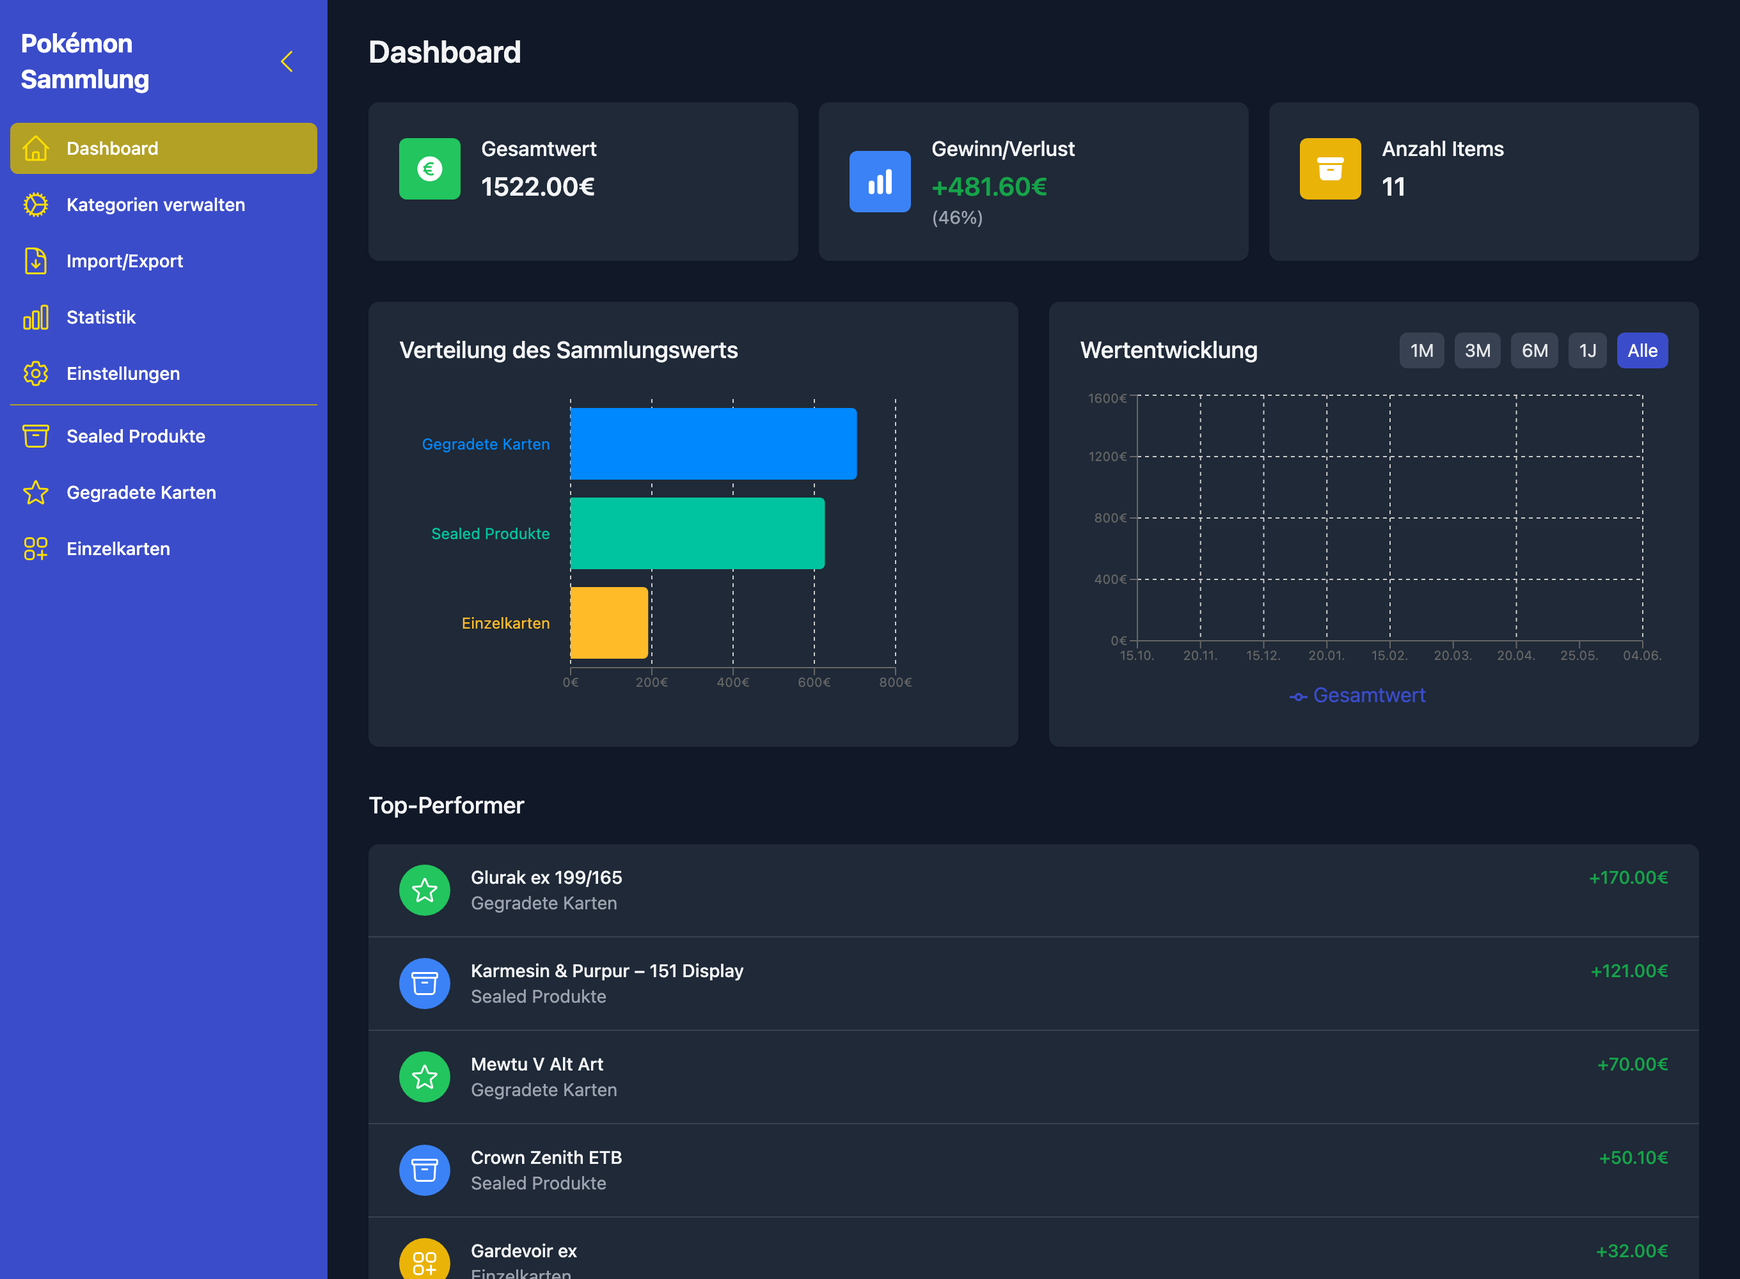
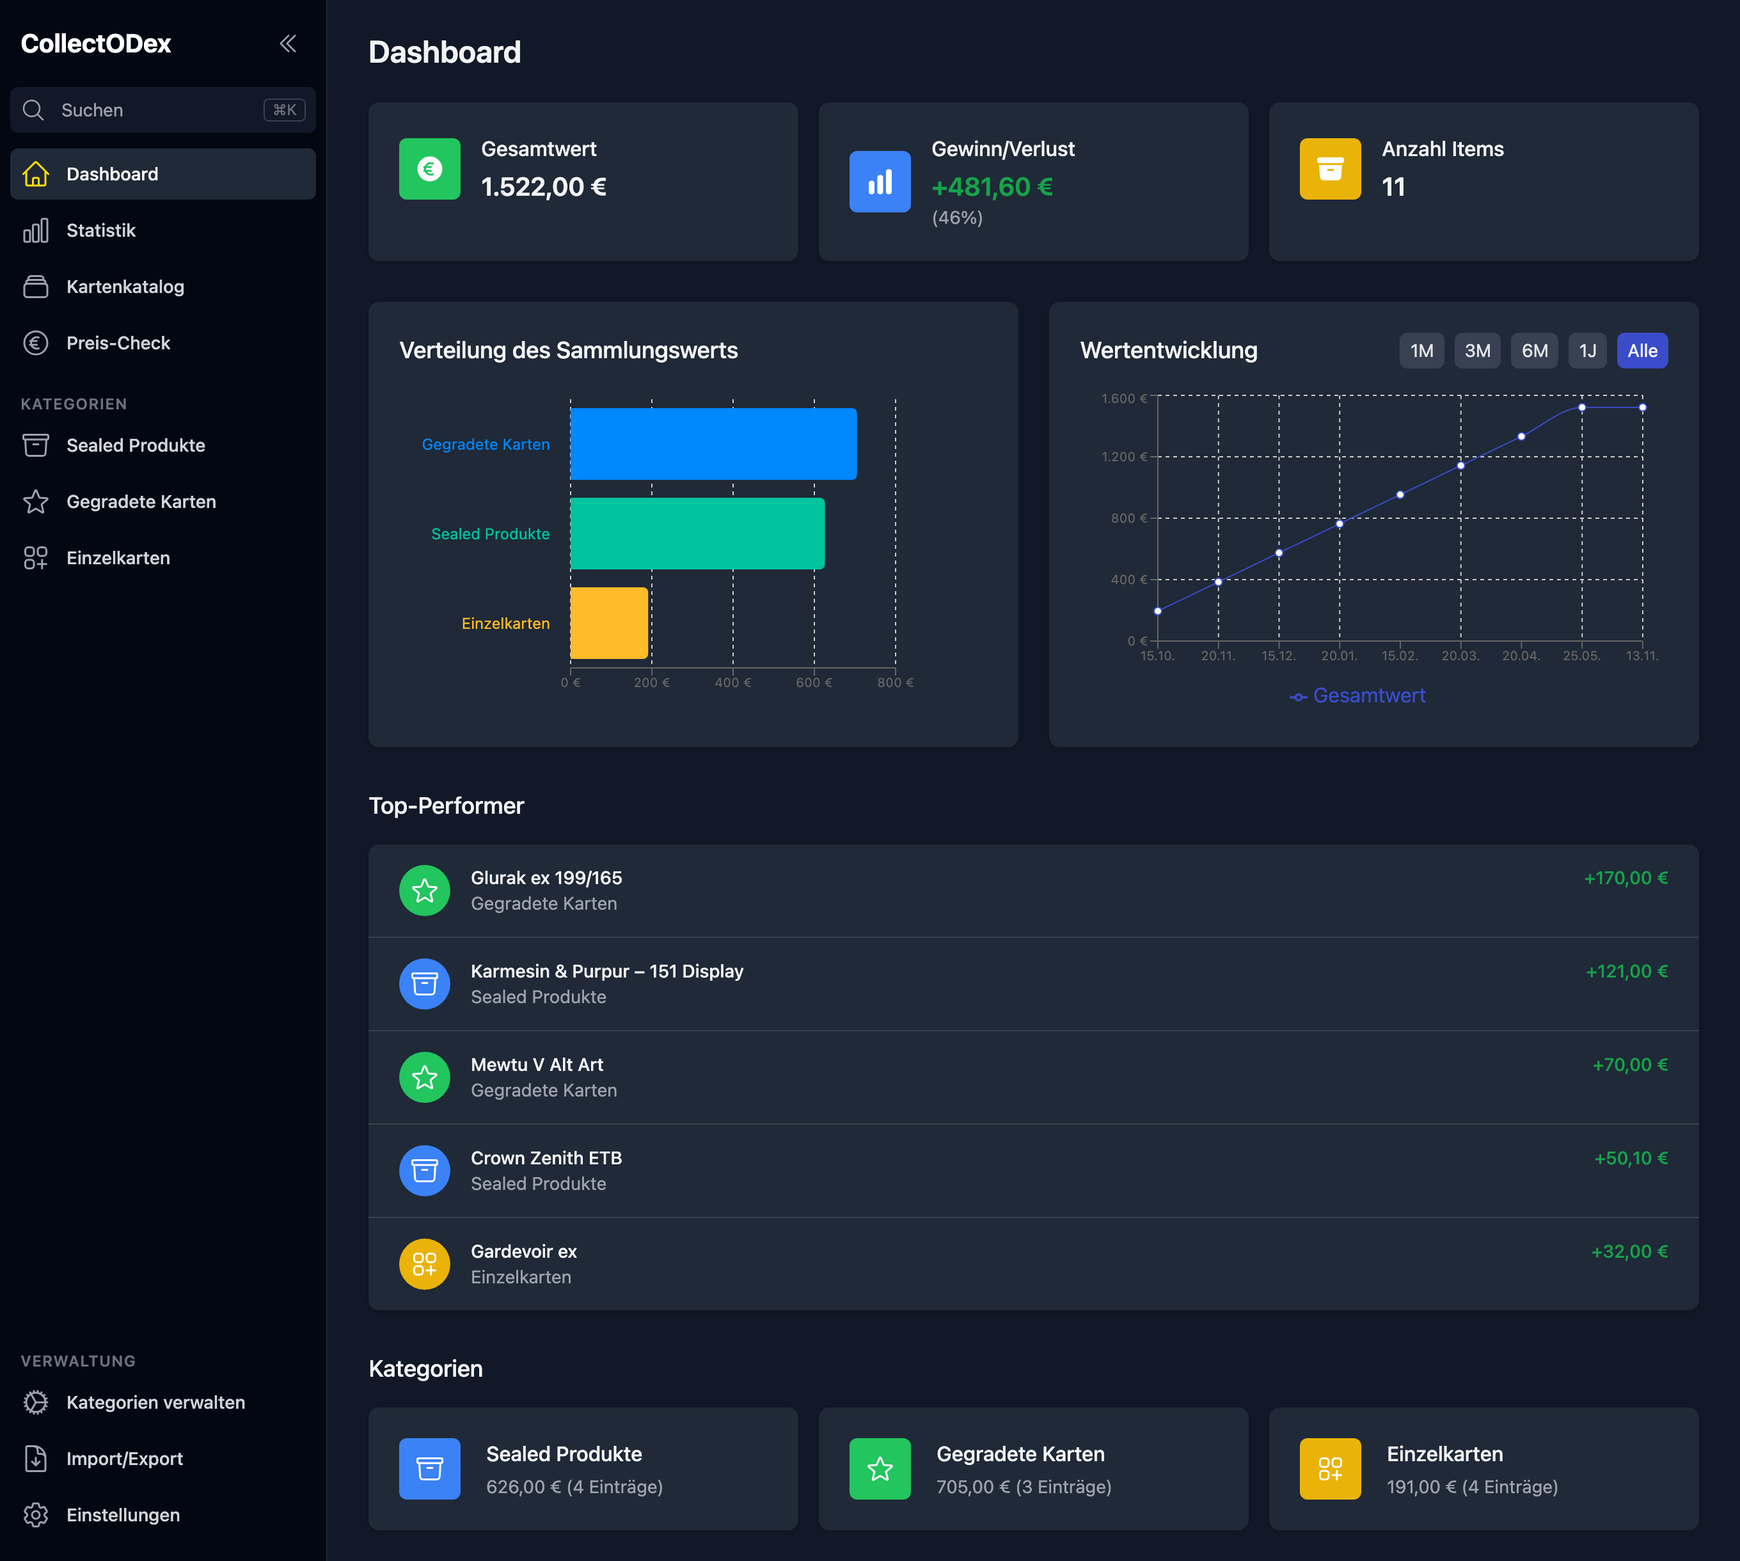
docs: README, Landingpage und Screenshots auf den Stand der 1.0 (#137)
- Funktionsliste um Kartenkatalog, Preis-Check, Fotos und Kachelansicht,
  globale Suche, Rückgängig und Fehlerprotokoll ergänzt (DE/EN).
- Systemvoraussetzungen (macOS 13, Windows 10), Architektur, Datenablage
  und Roadmap aktualisiert.
- Screenshots neu erzeugt. Das Skript nimmt nicht mehr die ganze Seite auf
  einmal auf (dabei fehlten die Diagrammlinien) und blendet die
  Einstiegskarte aus.

diff --git a/docs/index.html b/docs/index.html
@@ -183,13 +183,17 @@
       </p>
       <div class="grid">
         <div class="feature"><div class="ico">📦</div><h3><span class="de">Flexible Kategorien</span><span class="en">Flexible categories</span></h3><p><span class="de">Sealed, Gegradet, Einzelkarten oder eigene Kategorien mit frei definierbaren Attributen.</span><span class="en">Sealed, graded, singles or your own categories with freely defined attributes.</span></p></div>
+        <div class="feature"><div class="ico">🃏</div><h3><span class="de">Kartenkatalog</span><span class="en">Card catalogue</span></h3><p><span class="de">Sets auf Deutsch, Englisch und Japanisch durchblättern, Karten abhaken und mit Bild übernehmen.</span><span class="en">Browse sets in German, English and Japanese, tick off cards and add them with their image.</span></p></div>
+        <div class="feature"><div class="ico">💶</div><h3><span class="de">Preis-Check</span><span class="en">Price check</span></h3><p><span class="de">Eigene Werte mit dem Katalogpreis vergleichen und sehen, welche Preise fällig sind.</span><span class="en">Compare your own values with the catalogue price and see which prices are due.</span></p></div>
         <div class="feature"><div class="ico">📊</div><h3><span class="de">Dashboard</span><span class="en">Dashboard</span></h3><p><span class="de">Gesamtwert, Gewinn/Verlust, Wertverteilung und Wertentwicklung auf einen Blick.</span><span class="en">Total value, profit/loss, distribution and value trend at a glance.</span></p></div>
-        <div class="feature"><div class="ico">📈</div><h3><span class="de">Statistik</span><span class="en">Statistics</span></h3><p><span class="de">Rendite je Position, durchschnittliche Haltedauer und Wertverlauf pro Kategorie.</span><span class="en">ROI per item, average holding period and value history per category.</span></p></div>
+        <div class="feature"><div class="ico">📈</div><h3><span class="de">Statistik</span><span class="en">Statistics</span></h3><p><span class="de">Rendite je Eintrag, Haltedauer, größte Verluste und Wertverlauf pro Kategorie.</span><span class="en">Return per item, holding period, biggest losses and value history per category.</span></p></div>
         <div class="feature"><div class="ico">🧮</div><h3><span class="de">Berechnete Felder</span><span class="en">Calculated fields</span></h3><p><span class="de">Gesamtkosten, Gesamtwert und Gewinn/Verlust per Formel automatisch ermittelt.</span><span class="en">Total cost, total value and profit/loss derived automatically via formulas.</span></p></div>
+        <div class="feature"><div class="ico">🖼</div><h3><span class="de">Fotos &amp; Kacheln</span><span class="en">Photos &amp; tiles</span></h3><p><span class="de">Bilder liegen als Dateien auf deinem Rechner; Listen gibt es als Tabelle oder Kacheln.</span><span class="en">Images are stored as files on your machine; lists come as a table or as tiles.</span></p></div>
+        <div class="feature"><div class="ico">🔎</div><h3><span class="de">Globale Suche</span><span class="en">Global search</span></h3><p><span class="de">Mit ⌘K bzw. Strg+K über alle Kategorien, dazu Filtern und Sortieren in jeder Liste.</span><span class="en">⌘K / Ctrl+K across all categories, plus filtering and sorting in every list.</span></p></div>
+        <div class="feature"><div class="ico">↩</div><h3><span class="de">Rückgängig</span><span class="en">Undo</span></h3><p><span class="de">Löschen und Massenbearbeitung lassen sich zurücknehmen.</span><span class="en">Deleting and bulk editing can be reverted.</span></p></div>
+        <div class="feature"><div class="ico">💾</div><h3><span class="de">Import/Export &amp; Backups</span><span class="en">Import/export &amp; backups</span></h3><p><span class="de">Excel-Export und tägliche Sicherungen in einen Ordner deiner Wahl.</span><span class="en">Excel export and daily backups to a folder of your choice.</span></p></div>
         <div class="feature"><div class="ico">🌗</div><h3><span class="de">Dark Mode</span><span class="en">Dark mode</span></h3><p><span class="de">Hell, dunkel oder dem System folgend.</span><span class="en">Light, dark, or follow the system.</span></p></div>
-        <div class="feature"><div class="ico">💾</div><h3><span class="de">Import/Export &amp; Backups</span><span class="en">Import/export &amp; backups</span></h3><p><span class="de">Excel-Export und automatische, sicherbare Sicherungen.</span><span class="en">Excel export and automatic, restorable backups.</span></p></div>
-        <div class="feature"><div class="ico">🔎</div><h3><span class="de">Suchen &amp; Filtern</span><span class="en">Search &amp; filter</span></h3><p><span class="de">Suchen, filtern und sortieren – auch auf dem schmalen Fenster.</span><span class="en">Search, filter and sort – even in a narrow window.</span></p></div>
-        <div class="feature"><div class="ico">🔄</div><h3><span class="de">Auto-Update</span><span class="en">Auto-update</span></h3><p><span class="de">Benachrichtigt über neue Versionen (electron-updater).</span><span class="en">Notifies you about new versions (electron-updater).</span></p></div>
+        <div class="feature"><div class="ico">🔄</div><h3><span class="de">Auto-Update</span><span class="en">Auto-update</span></h3><p><span class="de">Meldet neue Versionen und installiert sie auf Klick.</span><span class="en">Tells you about new versions and installs them on click.</span></p></div>
       </div>
     </div>
   </section>
@@ -216,7 +220,7 @@
       <div class="install">
         <div class="card">
           <h3>🍎 macOS</h3>
-          <p class="subnote" style="margin-top:0"><span class="de">signiert &amp; notarisiert</span><span class="en">signed &amp; notarised</span></p>
+          <p class="subnote" style="margin-top:0"><span class="de">ab macOS 13, Apple Silicon · signiert &amp; notarisiert</span><span class="en">macOS 13 or later, Apple Silicon · signed &amp; notarised</span></p>
           <ol>
             <li><span class="de">Die <code>.dmg</code> öffnen.</span><span class="en">Open the <code>.dmg</code>.</span></li>
             <li><span class="de">CollectODex in den Ordner „Programme" ziehen.</span><span class="en">Drag CollectODex into your Applications folder.</span></li>
@@ -224,7 +228,7 @@
         </div>
         <div class="card">
           <h3>🪟 Windows</h3>
-          <p class="subnote" style="margin-top:0"><span class="de">NSIS-Installer, derzeit unsigniert</span><span class="en">NSIS installer, currently unsigned</span></p>
+          <p class="subnote" style="margin-top:0"><span class="de">ab Windows 10 · NSIS-Installer, derzeit unsigniert</span><span class="en">Windows 10 or later · NSIS installer, currently unsigned</span></p>
           <ol>
             <li><span class="de">Die <code>…Setup.exe</code> ausführen.</span><span class="en">Run the <code>…Setup.exe</code>.</span></li>
             <li><span class="de">Bei SmartScreen-Warnung: „Weitere Informationen" → „Trotzdem ausführen".</span><span class="en">If SmartScreen warns: “More info” → “Run anyway”.</span></li>

diff --git a/README.md b/README.md
@@ -35,13 +35,18 @@ Rechner; nichts wird in eine Cloud hochgeladen.
 ## Funktionen
 
 - 📦 **Flexible Kategorien** – Sealed, Gegradet, Einzelkarten oder eigene Kategorien mit frei definierbaren Attributen.
+- 🃏 **Kartenkatalog** – Sets auf Deutsch, Englisch und Japanisch durchblättern, vorhandene Karten abhaken und mit Bild in die Sammlung übernehmen.
+- 💶 **Preis-Check** – eigene Werte mit dem Katalogpreis vergleichen und sehen, welche Preise fällig sind.
 - 📊 **Dashboard** – Gesamtwert, Gewinn/Verlust, Wertverteilung und Wertentwicklung auf einen Blick.
-- 📈 **Statistik** – Rendite je Position, durchschnittliche Haltedauer und Wertverlauf pro Kategorie.
+- 📈 **Statistik** – Rendite je Eintrag, Haltedauer, größte Verluste und Wertverlauf pro Kategorie.
 - 🧮 **Berechnete Felder** – Gesamtkosten, Gesamtwert und Gewinn/Verlust per Formel automatisch ermittelt.
+- 🖼 **Fotos & Kachelansicht** – Bilder liegen als Dateien neben der Datendatei, Listen gibt es als Tabelle oder Kacheln.
+- 🔎 **Globale Suche** – mit ⌘K bzw. Strg+K über alle Kategorien, dazu Filtern und Sortieren in jeder Liste.
+- ↩ **Rückgängig** – Löschen und Massenbearbeitung lassen sich zurücknehmen.
+- 💾 **Import/Export & automatische Backups** – Excel-Export und tägliche Sicherungen in einen Ordner deiner Wahl.
 - 🌗 **Dark Mode** – Hell, dunkel oder dem System folgend.
-- 🔎 **Suchen, Filtern & Sortieren** – auch auf dem schmalen Fenster.
-- 💾 **Import/Export & automatische Backups** – Excel-Export und sicherbare Sicherungen.
-- 🔄 **Auto-Update** – benachrichtigt über neue Versionen (electron-updater).
+- 🔄 **Auto-Update** – meldet neue Versionen und installiert sie auf Klick.
+- 🩺 **Fehlerprotokoll** – bleibt auf deinem Rechner und lässt sich bei Problemen exportieren.
 
 ## Screenshots
 
@@ -62,11 +67,11 @@ Rechner; nichts wird in eine Cloud hochgeladen.
 
 Die fertigen Builds gibt es auf der **[Releases-Seite](https://github.com/R0cketBean/collectodex/releases/latest)**.
 
-**macOS** (signiert & notarisiert)
+**macOS** (ab macOS 13, Apple Silicon; signiert & notarisiert)
 1. Die `.dmg` öffnen.
 2. CollectODex in den Ordner „Programme" ziehen.
 
-**Windows** (NSIS-Installer, derzeit unsigniert)
+**Windows** (ab Windows 10; NSIS-Installer, derzeit unsigniert)
 1. Die `…Setup.exe` ausführen.
 2. Falls SmartScreen warnt: „Weitere Informationen" → „Trotzdem ausführen".
 
@@ -90,7 +95,8 @@ npm start
 Tests:
 
 ```bash
-npm test
+npm test          # Unit- und Komponententests
+npm run smoke     # Starttest gegen die gepackte App unter dist/
 ```
 
 ## Build
@@ -104,8 +110,9 @@ Die Artefakte landen unter `dist/`. Signierte Release-Builds erzeugt der
 [Release-Workflow](.github/workflows/release.yml) automatisch beim Pushen eines
 `v*`-Tags.
 
-> Die Screenshots in diesem README werden mit `node scripts/generate-screenshots.mjs`
-> aus der laufenden Web-Version (`npm start`) reproduzierbar erzeugt.
+> Die Screenshots in diesem README erzeugt `node scripts/generate-screenshots.mjs`
+> aus der laufenden Web-Version (`npm start -- --port 5180`); das Skript braucht ein
+> installiertes Google Chrome.
 
 ## Architektur
 
@@ -113,24 +120,37 @@ Die Artefakte landen unter `dist/`. Signierte Release-Builds erzeugt der
 | --- | --- |
 | `src/types/models.ts` | Datenmodell: Kategorien definieren Attribute, Items speichern Werte je Attribut-ID – dadurch beliebige eigene Kategorien. |
 | `src/context/CollectionContext.tsx` | Globaler Sammlungs-State (granulare Slices, stabile Actions). |
-| `src/pages/` | Dashboard, Sammlungslisten, Kategorieverwaltung, Statistik, Import/Export, Einstellungen. |
+| `src/pages/` | Dashboard, Sammlungslisten, Kartenkatalog, Preis-Check, Statistik, Kategorieverwaltung, Import/Export, Einstellungen. |
 | `src/services/StorageService.ts` | Persistenz-Abstraktion (Electron-Store ↔ `localStorage`-Fallback). |
+| `src/services/tcgdex.ts` | Kartenkatalog und Katalogpreise über die TCGdex-API. |
 | `public/electron.js`, `public/preload.js` | Electron-Hauptprozess und Preload. |
+| `public/security.js` | Regeln für das Fenster: erlaubte Speicherschlüssel, nur `https:`-Links, keine fremde Navigation. |
+| `public/imageStore.js` | Bildablage als Dateien, Vorschaubilder, Aufräumen verwaister Dateien. |
+| `public/errorLog.js` | Fehlerprotokoll von Hauptprozess und Fenster. |
+| `scripts/smoke-test.mjs` | Starttest der gepackten App (läuft in der CI und vor jedem Release). |
 
 Stack: **React 19 · TypeScript · Tailwind CSS · Vite · Electron · Recharts**.
 
 ## Datenspeicherung
 
-Sammlungs- und Kategoriedaten liegen im Electron-User-Data-Verzeichnis
-(Schlüssel `pokemon_collection_categories`, `pokemon_collection_items`,
-`pokemon_collection_value_history`). Im Browser dient `localStorage` als
-Fallback.
+Alles liegt lokal im Electron-User-Data-Verzeichnis (macOS:
+`~/Library/Application Support/collectodex`):
+
+| Ort | Inhalt |
+| --- | --- |
+| `collectodex-data.json` | Kategorien, Einträge, Wertverlauf, Katalog-Häkchen und Einstellungen. |
+| `images/` | Fotos als einzelne Dateien samt Vorschaubildern. Verwaiste Dateien räumst du in den Einstellungen auf. |
+| `logs/collectodex.log` | Fehlerprotokoll; wird nie übertragen. |
+
+Ins Netz geht die App nur für den Kartenkatalog (TCGdex), Katalogbilder
+(TCGdex, pokemontcg.io) und die Update-Prüfung (GitHub). Im Browser dient
+`localStorage` als Fallback.
 
 ## Roadmap
 
 Die Planung läuft über [GitHub-Milestones](https://github.com/R0cketBean/collectodex/milestones).
-Aktuelle Schwerpunkte: Konsolidierung & Performance, offizielle
-Cardmarket-OAuth-API für Preise, Design-Feinschliff – Windows-Politur zuletzt.
+Der Milestone „v1.0 – Stabilität & Release“ ist bis auf die Signatur des
+Windows-Installers abgeschlossen; was danach kommt, steht unter „Nach 1.0“.
 
 ## Lizenz
 

diff --git a/README.en.md b/README.en.md
@@ -35,13 +35,18 @@ cloud.
 ## Features
 
 - 📦 **Flexible categories** – sealed, graded, singles, or your own categories with freely defined attributes.
+- 🃏 **Card catalogue** – browse sets in German, English and Japanese, tick off the cards you own and add them to your collection with their image.
+- 💶 **Price check** – compare your own values with the catalogue price and see which prices are due for an update.
 - 📊 **Dashboard** – total value, profit/loss, value distribution and value trend at a glance.
-- 📈 **Statistics** – ROI per item, average holding period and value history per category.
+- 📈 **Statistics** – return per item, holding period, biggest losses and value history per category.
 - 🧮 **Calculated fields** – total cost, total value and profit/loss derived automatically via formulas.
+- 🖼 **Photos & tile view** – images are stored as files next to the data file; lists come as a table or as tiles.
+- 🔎 **Global search** – ⌘K / Ctrl+K across all categories, plus filtering and sorting in every list.
+- ↩ **Undo** – deleting and bulk editing can be reverted.
+- 💾 **Import/export & automatic backups** – Excel export and daily backups to a folder of your choice.
 - 🌗 **Dark mode** – light, dark, or follow the system.
-- 🔎 **Search, filter & sort** – even in a narrow window.
-- 💾 **Import/export & automatic backups** – Excel export and restorable backups.
-- 🔄 **Auto-update** – notifies you about new versions (electron-updater).
+- 🔄 **Auto-update** – tells you about new versions and installs them on click.
+- 🩺 **Error log** – stays on your machine and can be exported when something goes wrong.
 
 ## Screenshots
 
@@ -62,11 +67,11 @@ cloud.
 
 Prebuilt binaries are on the **[Releases page](https://github.com/R0cketBean/collectodex/releases/latest)**.
 
-**macOS** (signed & notarised)
+**macOS** (macOS 13 or later, Apple Silicon; signed & notarised)
 1. Open the `.dmg`.
 2. Drag CollectODex into your **Applications** folder.
 
-**Windows** (NSIS installer, currently unsigned)
+**Windows** (Windows 10 or later; NSIS installer, currently unsigned)
 1. Run the `…Setup.exe`.
 2. If SmartScreen warns: “More info” → “Run anyway”.
 
@@ -90,7 +95,8 @@ npm start
 Tests:
 
 ```bash
-npm test
+npm test          # unit and component tests
+npm run smoke     # smoke test against the packaged app in dist/
 ```
 
 ## Build
@@ -103,8 +109,9 @@ npm run electron-pack-all   # macOS + Windows + Linux
 Artifacts land in `dist/`. Signed release builds are produced automatically by
 the [release workflow](.github/workflows/release.yml) when a `v*` tag is pushed.
 
-> The screenshots in this README are reproducibly generated from the running web
-> build (`npm start`) with `node scripts/generate-screenshots.mjs`.
+> The screenshots in this README are generated by `node scripts/generate-screenshots.mjs`
+> from the running web build (`npm start -- --port 5180`); the script needs an
+> installed Google Chrome.
 
 ## Architecture
 
@@ -112,24 +119,37 @@ the [release workflow](.github/workflows/release.yml) when a `v*` tag is pushed.
 | --- | --- |
 | `src/types/models.ts` | Data model: categories define attributes, items store values per attribute ID – enabling arbitrary custom categories. |
 | `src/context/CollectionContext.tsx` | Global collection state (granular slices, stable actions). |
-| `src/pages/` | Dashboard, collection lists, category management, statistics, import/export, settings. |
+| `src/pages/` | Dashboard, collection lists, card catalogue, price check, statistics, category management, import/export, settings. |
 | `src/services/StorageService.ts` | Persistence abstraction (Electron store ↔ `localStorage` fallback). |
+| `src/services/tcgdex.ts` | Card catalogue and catalogue prices via the TCGdex API. |
 | `public/electron.js`, `public/preload.js` | Electron main process and preload. |
+| `public/security.js` | Rules for the window: allowed storage keys, `https:` links only, no foreign navigation. |
+| `public/imageStore.js` | Image storage as files, thumbnails, clean-up of orphaned files. |
+| `public/errorLog.js` | Error log of main process and window. |
+| `scripts/smoke-test.mjs` | Smoke test of the packaged app (runs in CI and before every release). |
 
 Stack: **React 19 · TypeScript · Tailwind CSS · Vite · Electron · Recharts**.
 
 ## Data storage
 
-Collection and category data live in the Electron user-data directory (keys
-`pokemon_collection_categories`, `pokemon_collection_items`,
-`pokemon_collection_value_history`). In the browser, `localStorage` is used as a
-fallback.
+Everything is stored locally in the Electron user-data directory (macOS:
+`~/Library/Application Support/collectodex`):
+
+| Location | Contents |
+| --- | --- |
+| `collectodex-data.json` | Categories, items, value history, catalogue ticks and settings. |
+| `images/` | Photos as individual files, including thumbnails. Orphaned files can be cleaned up in the settings. |
+| `logs/collectodex.log` | Error log; never transmitted. |
+
+The app only goes online for the card catalogue (TCGdex), catalogue images
+(TCGdex, pokemontcg.io) and the update check (GitHub). In the browser,
+`localStorage` is used as a fallback.
 
 ## Roadmap
 
 Planning happens via [GitHub milestones](https://github.com/R0cketBean/collectodex/milestones).
-Current focus: consolidation & performance, the official Cardmarket OAuth API for
-prices, design polish – Windows polish last.
+The milestone “v1.0 – Stabilität & Release” is complete except for signing the
+Windows installer; what comes next is listed under “Nach 1.0”.
 
 ## License
 
